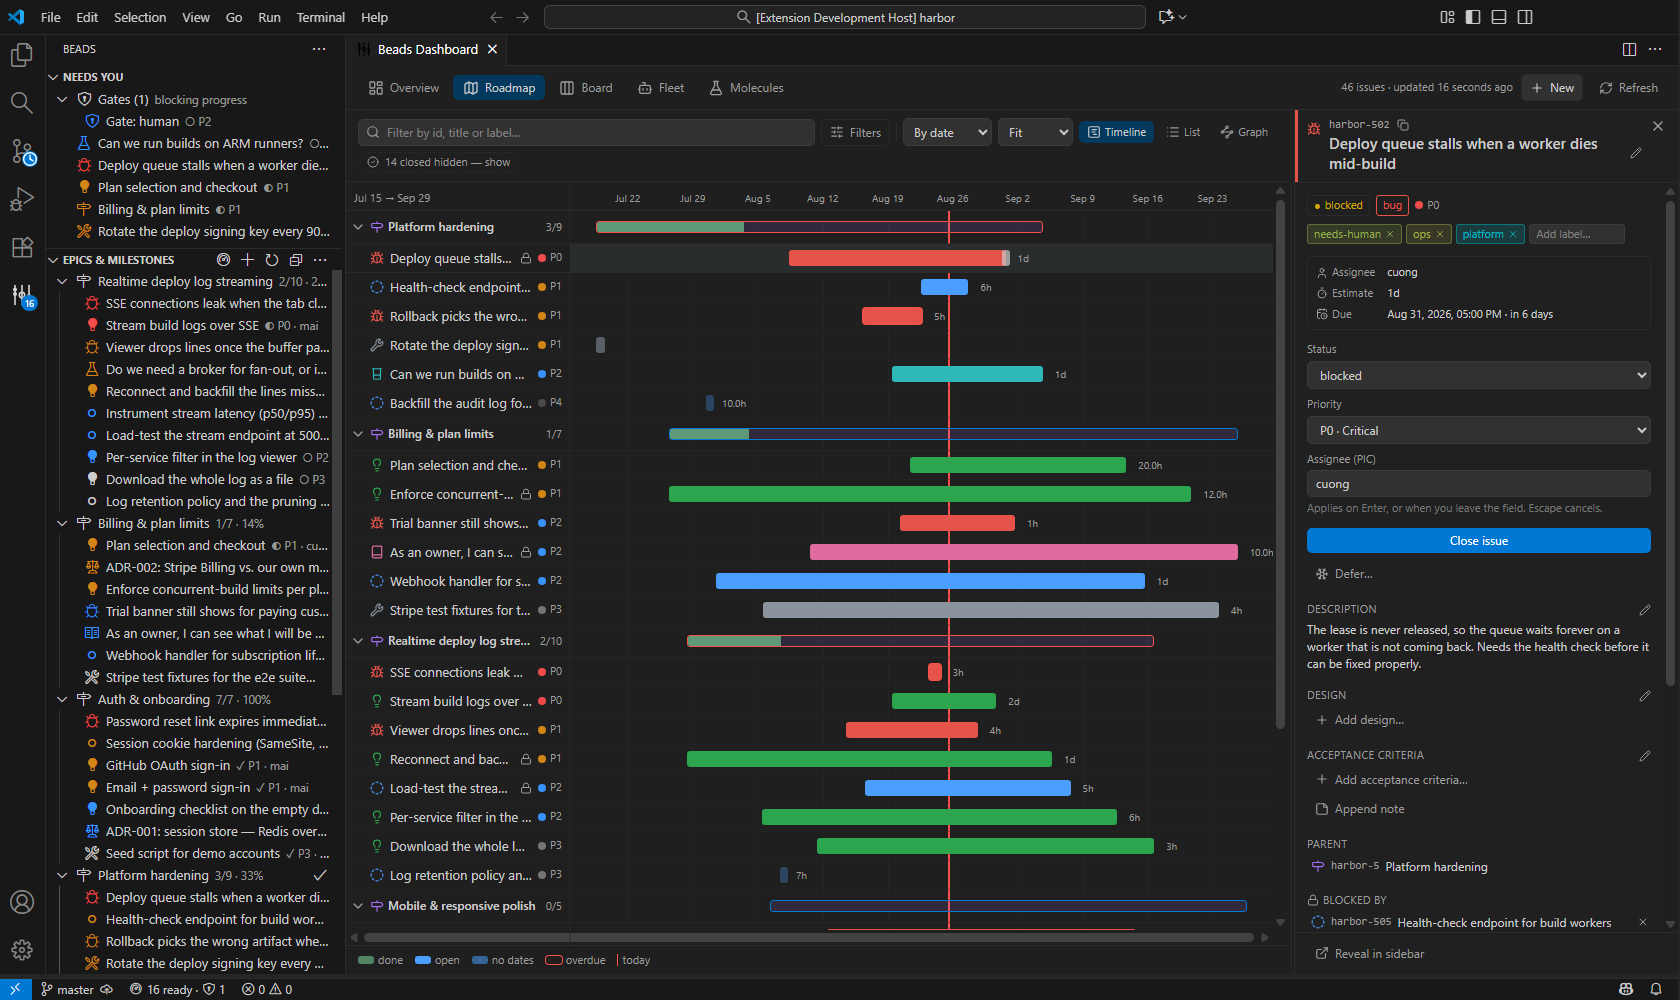
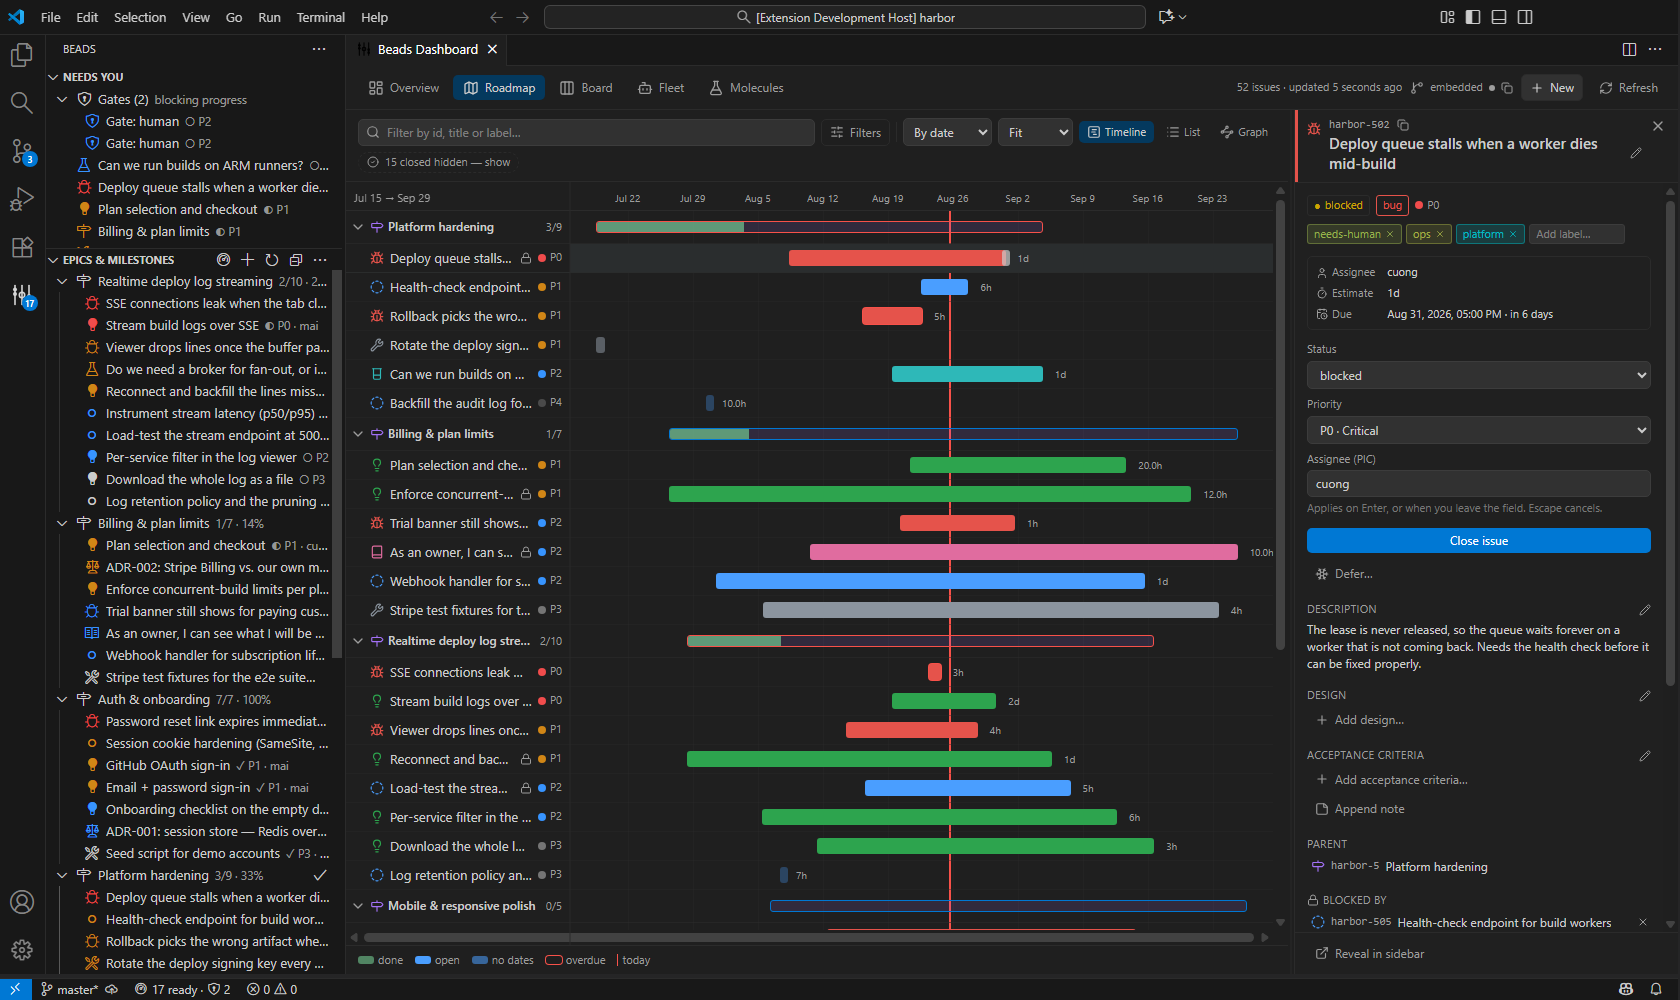
docs(readme): resync screenshot captions with the 46->54 issue demo dataset (beads-ui-vscode-ext-9e9.16)
beads-ui-vscode-ext-9e9.14 permanently changed the Harbor demo project's
issue count (a molecule epic + 5 steps + a second gate were seeded on top of
the original 46), so every README caption citing a specific count was stale.

Ran `npm run capture:demo` for a fresh dataset + screenshot set, then read
the real numbers/labels off each regenerated PNG and fixed every caption to
match:

- Overview: 46->54 issues, 15->18 ready, 4->7 blocked, 30%->29% done donut,
  burn-up span six->seven weeks (still 2 overdue, still four people + an
  agent, still five epics).
- Roadmap: nine->eleven weeks, "14 closed hidden" -> "15 closed hidden".
- Board: Open 19->23, In Progress 9->10, Done 14->15 (On Hold still 4).
- Graph: sidebar Gates(1) -> Gates(2).
- Molecules-detail: reordered the step-state list to match the step order
  the demo now actually renders (Ready/gate:human, In progress, Ready, Done)
  — the previous wording assumed an order that no longer occurs.
- Roadmap-detail: the Timeline shape's "first task row" selector now lands
  on a different (blocked bug) issue than before; recaptioned "for a
  feature" -> "for a blocked bug" and dropped the Comments(0) claim, since
  that composer sits below the fold on first open (confirmed by comparing
  against detail-comments.png's dedicated, scrolled-into-view capture) and
  was never actually visible in this particular shot even before this bead.
- Sidebar: Gates(1)->Gates(2), five->four issues assigned to you, status bar
[…]

diff --git a/README.md b/README.md
@@ -80,13 +80,13 @@ direct readers incompatible.
 ## See it in action
 
 Every shot below is a real editor against the same mid-flight demo project — five
-epics, 46 issues, four people and an agent. It is generated, not curated: `npm run
+epics, 54 issues, four people and an agent. It is generated, not curated: `npm run
 capture:demo` seeds it and re-takes every image.
 
 **Overview** — totals, status split, priority mix, workload per person, and a
 burn-up of everything closed so far:
 
-![Overview tab: 46 issues, 15 ready, 4 blocked, 2 overdue, a 30% done donut, priority and issue-type breakdowns, a rising burn-up over six weeks, and workload per assignee](https://raw.githubusercontent.com/cuongbphv/beads-ui-vscode-ext/main/docs/screenshots/overview.png)
+![Overview tab: 54 issues, 18 ready, 7 blocked, 2 overdue, a 29% done donut, priority and issue-type breakdowns, a rising burn-up over seven weeks, and workload per assignee](https://raw.githubusercontent.com/cuongbphv/beads-ui-vscode-ext/main/docs/screenshots/overview.png)
 
 **Overview, sync status and health checks** — both the header's sync-status chip
 and the **Project health** drawer fetch nothing until you act: this is the chip
@@ -98,12 +98,12 @@ either one's default empty state:
 **Roadmap** — a real timeline with today marked, each epic carrying its own
 progress count. Closed work is folded away behind a count you can click:
 
-![Roadmap tab: five epics as Gantt rows with per-task bars across nine weeks, a today line, and a "14 closed hidden — show" chip](https://raw.githubusercontent.com/cuongbphv/beads-ui-vscode-ext/main/docs/screenshots/roadmap.png)
+![Roadmap tab: five epics as Gantt rows with per-task bars across eleven weeks, a today line, and a "15 closed hidden — show" chip](https://raw.githubusercontent.com/cuongbphv/beads-ui-vscode-ext/main/docs/screenshots/roadmap.png)
 
 **Board** — columns derived from your status *categories* at runtime, so a custom
 status lands in the right column. Done starts folded:
 
-![Kanban board with Open 19, In Progress 9, On Hold 4 and a folded Done 14; cards carry type, id, title, labels, priority, due date and assignee](https://raw.githubusercontent.com/cuongbphv/beads-ui-vscode-ext/main/docs/screenshots/board.png)
+![Kanban board with Open 23, In Progress 10, On Hold 4 and a folded Done 15; cards carry type, id, title, labels, priority, due date and assignee](https://raw.githubusercontent.com/cuongbphv/beads-ui-vscode-ext/main/docs/screenshots/board.png)
 
 **Board, swimlanes on** — the same board, one toggle away from grouped by taxonomy
 label instead of one long column: `auto-ok`, `auto-partial` and `needs-human`, four
@@ -115,7 +115,7 @@ issues apiece in this project:
 preferred spot, nudged with the arrow keys, or sent back with **Reset layout**; blocked
 issues are flagged red wherever they sit in the layout:
 
-![Graph tab: a layered dependency DAG with several blocked issues outlined in red, zoom and reset-layout controls in the toolbar, and the sidebar's Gates(1) entry alongside it](https://raw.githubusercontent.com/cuongbphv/beads-ui-vscode-ext/main/docs/screenshots/graph.png)
+![Graph tab: a layered dependency DAG with several blocked issues outlined in red, zoom and reset-layout controls in the toolbar, and the sidebar's Gates(2) entry alongside it](https://raw.githubusercontent.com/cuongbphv/beads-ui-vscode-ext/main/docs/screenshots/graph.png)
 
 **Molecules** — `bd mol` molecules as cards with live progress, and open gates
 surfaced right alongside them:
@@ -125,7 +125,7 @@ surfaced right alongside them:
 **Molecules, a step list expanded** — one molecule, five visually distinct step
 states: done, current, ready, pending and gated:
 
-![Molecule detail step list for "ssepatch" grouped into a parallel cluster: a Ready step tagged with a gate: human badge, a Done step struck through, another Ready step, and an In progress step, plus a Pending step outside the group blocked by one of the ready steps](https://raw.githubusercontent.com/cuongbphv/beads-ui-vscode-ext/main/docs/screenshots/molecules-detail.png)
+![Molecule detail step list for "ssepatch" grouped into a parallel cluster: a Ready step tagged with a gate: human badge, an In progress step, another Ready step, and a Done step struck through, plus a Pending step outside the group blocked by one of the ready steps](https://raw.githubusercontent.com/cuongbphv/beads-ui-vscode-ext/main/docs/screenshots/molecules-detail.png)
 
 **Fleet** — one orchestrator, one worker running against a real `wt-*` git
 worktree, streamed straight from the same JSONL transcript Claude Code itself
@@ -144,12 +144,12 @@ block, and a `✓ PASSED` result, drawn as React elements, never
 assignee apply as you set them, and comments plus an append-only notes composer sit
 below the fields, present even with zero comments so far:
 
-![Detail pane for a feature showing status and priority selects, an assignee field that applies on Enter, estimate, due date, parent epic, dependencies, an Append note link, and a Comments (0) composer with a Ctrl/Cmd+Enter-to-submit textarea](https://raw.githubusercontent.com/cuongbphv/beads-ui-vscode-ext/main/docs/screenshots/roadmap-detail.png)
+![Detail pane for a blocked bug showing status and priority selects, an assignee field that applies on Enter, estimate, due date, parent epic, an Append note link, and what blocks it](https://raw.githubusercontent.com/cuongbphv/beads-ui-vscode-ext/main/docs/screenshots/roadmap-detail.png)
 
 **Sidebar** — what needs you on top, then the plan. An open gate now outranks even
 your own assigned issues, since it blocks real work until someone clears it:
 
-![Sidebar with a Needs You section topped by a Gates(1) entry and a Resolve action, five issues assigned to you below it, then Epics & Milestones expanded to show child tasks with type icons and priorities; the status bar reads 16 ready and a shield icon with 1](https://raw.githubusercontent.com/cuongbphv/beads-ui-vscode-ext/main/docs/screenshots/sidebar-tree-expanded.png)
+![Sidebar with a Needs You section topped by a Gates(2) entry and a Resolve action, four issues assigned to you below it, then Epics & Milestones expanded to show child tasks with type icons and priorities; the status bar reads 17 ready and a shield icon with 2](https://raw.githubusercontent.com/cuongbphv/beads-ui-vscode-ext/main/docs/screenshots/sidebar-tree-expanded.png)
 
 ## Requirements
 
